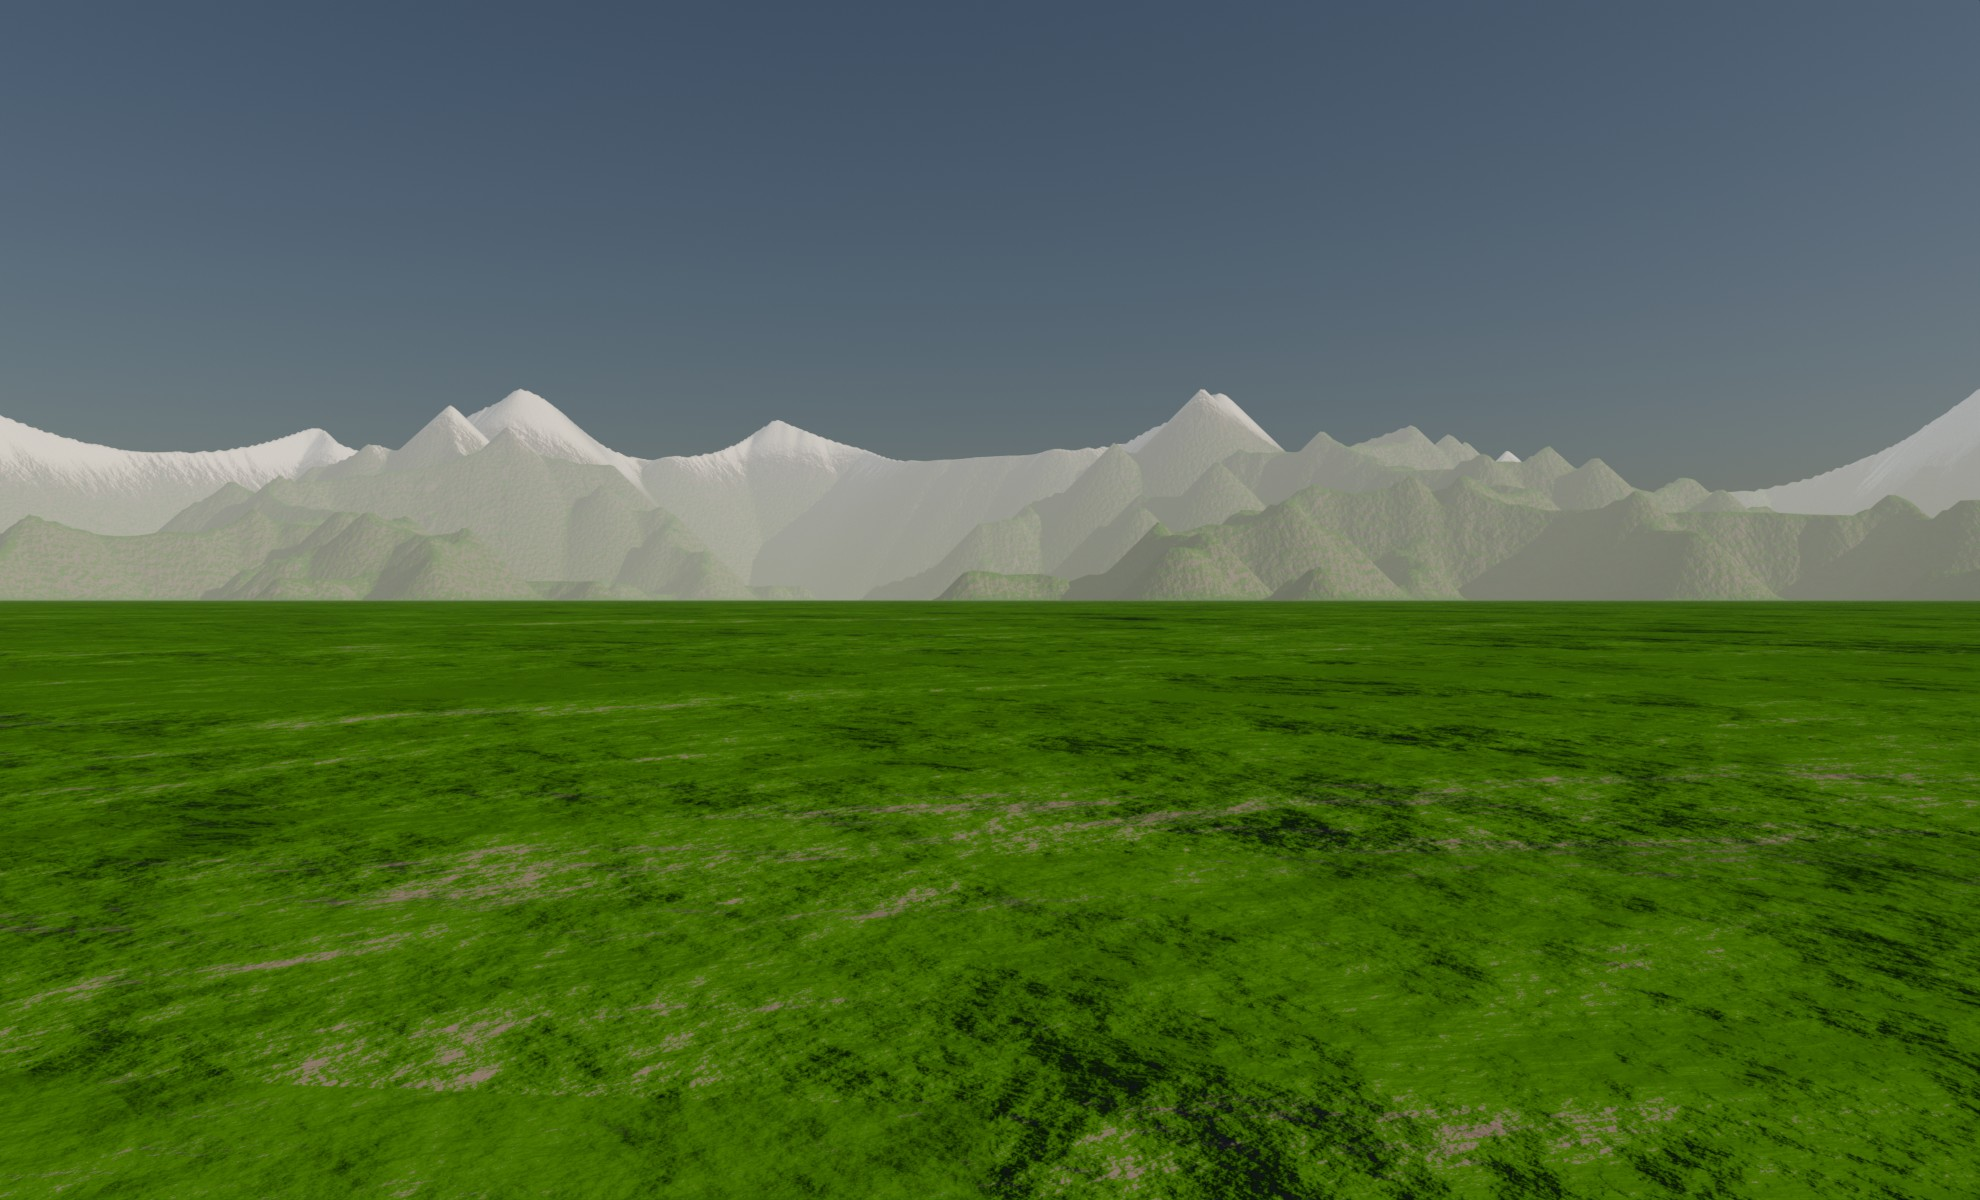
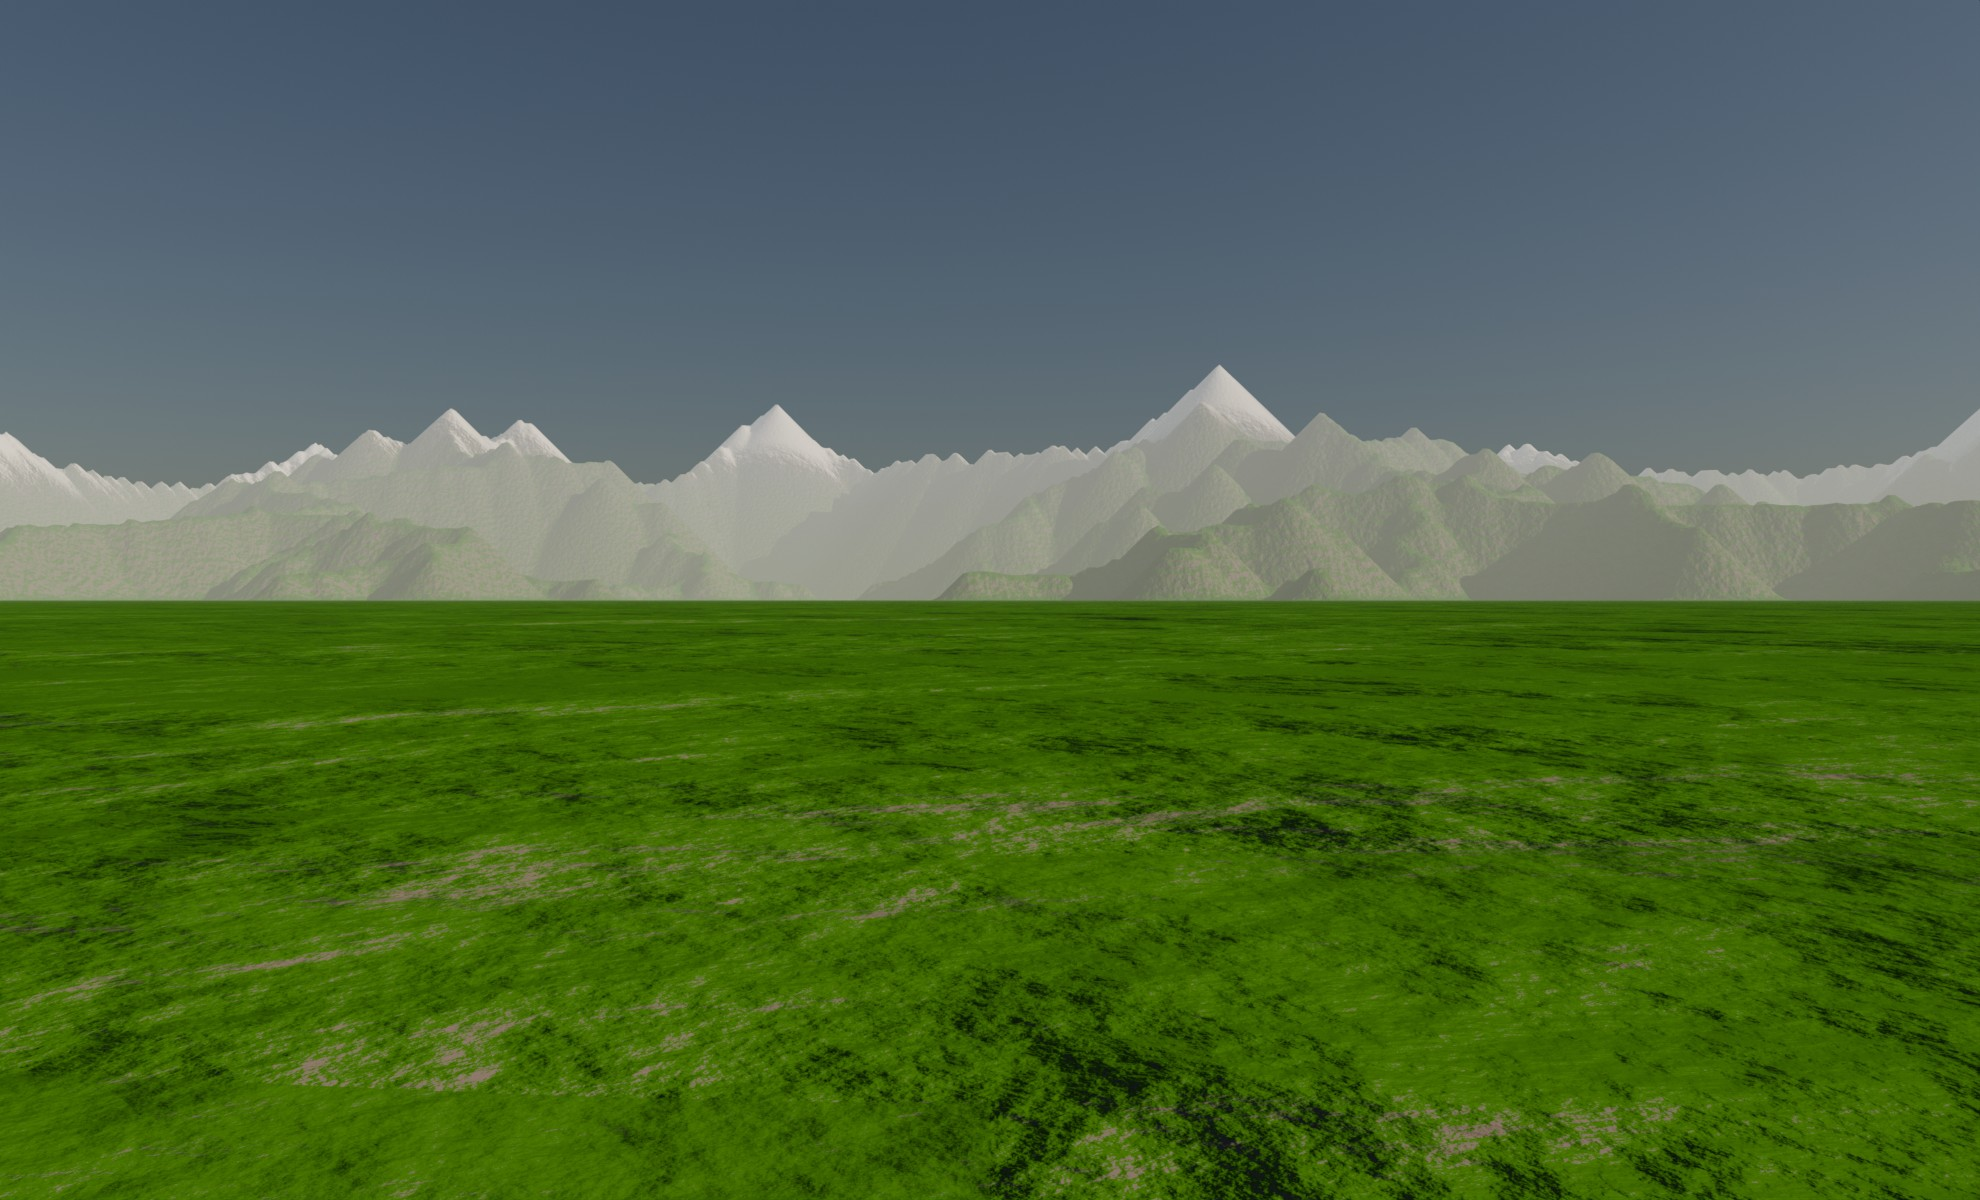
Add noise to elevation

diff --git a/lib/generators/ridge_tree_generator/ridge_tree_branch.cpp b/lib/generators/ridge_tree_generator/ridge_tree_branch.cpp
@@ -82,19 +82,101 @@ terraformer::single_array<float> terraformer::generate_elevation_profile(
 	auto const peak_noise_mix = elevation_profile.peak_noise_mix;
 	auto const peak_gain = (1.0f - peak_noise_mix)*mod_depth;
 
-	single_array ret{std::size(integrated_curve_length)};
-	auto begin_elevation = 0.0f;
-	auto begin_index = integrated_curve_length.first_element_index();
-	std::uniform_real_distribution peak_elevation_distribution{0.0f, 1.0f};
-	for(auto k = branch_points.first_element_index();
-		k != std::size(branch_points);
-		++k
-	)
+	single_array noise_array{std::size(integrated_curve_length)};
 	{
-		array_index<float> const end_index{branch_points[k].get()};
-		auto const dl = integrated_curve_length[end_index] - integrated_curve_length[begin_index];
-		auto const end_elevation = peak_elevation_distribution(rng);
-		auto const col_elvation = -peak_elevation_distribution(rng);
+		std::uniform_real_distribution U{-1.0f, 1.0f};
+		auto const noise_gen = [](float x, float){ return x; };
+		noise_array.front() = 0.0f;
+		auto min_val = 2.0f;
+		auto max_val = - min_val;
+		for(auto k = noise_array.first_element_index() + 1; k != std::size(noise_array); ++k)
+		{
+			auto const dt = integrated_curve_length[k] - integrated_curve_length[k - 1];
+			auto const val = noise_gen(U(rng), dt);
+			min_val = std::min(min_val, val);
+			max_val = std::max(max_val, val);
+			noise_array[k] = val;
+		}
+
+		auto const offset_in = 0.5f*(max_val + min_val);
+		auto const amp_in = 0.5f*(max_val - min_val);
+
+		for(auto k = noise_array.first_element_index(); k != std::size(noise_array); ++k)
+		{ noise_array[k] = (noise_array[k] - offset_in)/amp_in; }
+	}
+
+	single_array ret{std::size(integrated_curve_length)};
+	{
+		auto begin_elevation = 0.0f;
+		auto begin_index = integrated_curve_length.first_element_index();
+		std::uniform_real_distribution peak_elevation_distribution{0.0f, 1.0f};
+		for(auto k = branch_points.first_element_index();
+			k != std::size(branch_points);
+			++k
+		)
+		{
+			array_index<float> const end_index{branch_points[k].get()};
+			auto const dl = integrated_curve_length[end_index] - integrated_curve_length[begin_index];
+			auto const end_elevation = peak_elevation_distribution(rng);
+			auto const col_elvation = -peak_elevation_distribution(rng);
+
+			auto const begin_ddx = wrap_derivative(
+				std::tan(two_pi*pick(elevation_profile.per_peak_modulation.slope, rng)),
+				begin_elevation,
+				initial_elevation,
+				integrated_curve_length[begin_index],
+				L,
+				peak_gain
+			);
+
+			auto const end_ddx = wrap_derivative(
+				std::tan(two_pi*pick(elevation_profile.per_peak_modulation.slope, rng)),
+				begin_elevation,
+				initial_elevation,
+				integrated_curve_length[begin_index],
+				L,
+				peak_gain
+			);
+
+			auto const p_peak_begin = make_polynomial(
+				cubic_spline_control_point{
+					.y = begin_elevation,
+					.ddx = -0.5f*dl*begin_ddx  // Divide by two to compensate for spline being compressed
+				},
+				cubic_spline_control_point{
+					.y = col_elvation,
+					.ddx = 0.0f
+				}
+			);
+
+			auto const p_peak_end = make_polynomial(
+				cubic_spline_control_point{
+					.y = col_elvation,
+					.ddx = 0.0f
+				},
+				cubic_spline_control_point{
+					.y = end_elevation,
+					.ddx = 0.5f*dl*end_ddx  // Divide by two to compensate for spline being compressed
+				}
+			);
+
+			auto const mod_func = [p_peak_begin, p_peak_end, col_elvation](auto x) {
+				return std::max(x < 0.5f? p_peak_begin(2.0f*x) : p_peak_end(2.0f*(x - 0.5f)), col_elvation);
+			};
+
+			for(auto l = begin_index; l != end_index; ++l)
+			{
+				auto const t = integrated_curve_length[l];
+				auto const x = t - integrated_curve_length[begin_index];
+				ret[l] = std::max(initial_elevation(t/L), 0.0f)
+					*(1.0f + mod_depth*std::lerp(mod_func(x/dl), noise_array[l], peak_noise_mix));
+			}
+
+			begin_elevation = end_elevation;
+			begin_index = end_index;
+		}
+
+		auto const dl = L - integrated_curve_length[begin_index];
 
 		auto const begin_ddx = wrap_derivative(
 			std::tan(two_pi*pick(elevation_profile.per_peak_modulation.slope, rng)),
@@ -105,19 +187,12 @@ terraformer::single_array<float> terraformer::generate_elevation_profile(
 			peak_gain
 		);
 
-		auto const end_ddx = wrap_derivative(
-			std::tan(two_pi*pick(elevation_profile.per_peak_modulation.slope, rng)),
-			begin_elevation,
-			initial_elevation,
-			integrated_curve_length[begin_index],
-			L,
-			peak_gain
-		);
+		auto const col_elvation = -peak_elevation_distribution(rng);
 
-		auto const p_peak_begin = make_polynomial(
+		auto const p_peak_final = make_polynomial(
 			cubic_spline_control_point{
 				.y = begin_elevation,
-				.ddx = -0.5f*dl*begin_ddx  // Divide by two to compensate for spline being compressed
+				.ddx = -dl*begin_ddx  // Divide by two to compensate for spline being compressed
 			},
 			cubic_spline_control_point{
 				.y = col_elvation,
@@ -125,65 +200,14 @@ terraformer::single_array<float> terraformer::generate_elevation_profile(
 			}
 		);
 
-		auto const p_peak_end = make_polynomial(
-			cubic_spline_control_point{
-				.y = col_elvation,
-				.ddx = 0.0f
-			},
-			cubic_spline_control_point{
-				.y = end_elevation,
-				.ddx = 0.5f*dl*end_ddx  // Divide by two to compensate for spline being compressed
-			}
-		);
-
-		auto const mod_func = [p_peak_begin, p_peak_end, col_elvation](auto x) {
-			return std::max(x < 0.5f? p_peak_begin(2.0f*x) : p_peak_end(2.0f*(x - 0.5f)), col_elvation);
-		};
-
-		for(auto l = begin_index; l != end_index; ++l)
+		for(auto l = begin_index; l != std::size(integrated_curve_length); ++l)
 		{
 			auto const t = integrated_curve_length[l];
 			auto const x = t - integrated_curve_length[begin_index];
 			ret[l] = std::max(initial_elevation(t/L), 0.0f)
-				*(1.0f + mod_depth*std::lerp(mod_func(x/dl), 1.0f, peak_noise_mix));
+				*(1.0f + mod_depth*std::lerp(p_peak_final(x/dl), noise_array[l], peak_noise_mix));
 		}
-
-		begin_elevation = end_elevation;
-		begin_index = end_index;
 	}
-
-	auto const dl = L - integrated_curve_length[begin_index];
-
-	auto const begin_ddx = wrap_derivative(
-		std::tan(two_pi*pick(elevation_profile.per_peak_modulation.slope, rng)),
-		begin_elevation,
-		initial_elevation,
-		integrated_curve_length[begin_index],
-		L,
-		peak_gain
-	);
-
-	auto const col_elvation = -peak_elevation_distribution(rng);
-
-	auto const p_peak_final = make_polynomial(
-		cubic_spline_control_point{
-			.y = begin_elevation,
-			.ddx = -dl*begin_ddx  // Divide by two to compensate for spline being compressed
-		},
-		cubic_spline_control_point{
-			.y = col_elvation,
-			.ddx = 0.0f
-		}
-	);
-
-	for(auto l = begin_index; l != std::size(integrated_curve_length); ++l)
-	{
-		auto const t = integrated_curve_length[l];
-		auto const x = t - integrated_curve_length[begin_index];
-		ret[l] = std::max(initial_elevation(t/L), 0.0f)
-			*(1.0f + mod_depth*std::lerp(p_peak_final(x/dl), 1.0f, peak_noise_mix));
-	}
-
 	return ret;
 }
 

diff --git a/lib/generators/ridge_tree_generator/ridge_tree.test.cpp b/lib/generators/ridge_tree_generator/ridge_tree.test.cpp
@@ -139,7 +139,7 @@ TESTCASE(terraformer_ridge_tree_generate)
 			},
 			.modulation{
 				.mod_depth = terraformer::modulation_depth{2.0f/5.0f},
-				.peak_noise_mix = terraformer::blend_value{0.0f},
+				.peak_noise_mix = terraformer::blend_value{1.0f/8.0f},
 				.per_peak_modulation{
 					.slope{
 						.min = terraformer::slope_angle{1.0f/24.0f},
@@ -164,7 +164,7 @@ TESTCASE(terraformer_ridge_tree_generate)
 			},
 			.modulation{
 				.mod_depth = terraformer::modulation_depth{1.0f/5.0f},
-				.peak_noise_mix = terraformer::blend_value{0.0f},
+				.peak_noise_mix = terraformer::blend_value{1.0f/8.0f},
 				.per_peak_modulation{
 					.slope{
 						.min = terraformer::slope_angle{1.0f/24.0f},
@@ -189,7 +189,7 @@ TESTCASE(terraformer_ridge_tree_generate)
 			},
 			.modulation{
 				.mod_depth = terraformer::modulation_depth{2.0f/15.0f},
-				.peak_noise_mix = terraformer::blend_value{0.0f},
+				.peak_noise_mix = terraformer::blend_value{1.0f/8.0f},
 				.per_peak_modulation{
 					.slope{
 						.min = terraformer::slope_angle{1.0f/24.0f},
@@ -213,11 +213,11 @@ TESTCASE(terraformer_ridge_tree_generate)
 			},
 			.modulation{
 				.mod_depth = terraformer::modulation_depth{2.0f/25.0f},
-				.peak_noise_mix = terraformer::blend_value{0.0f},
+				.peak_noise_mix = terraformer::blend_value{1.0f/8.0f},
 				.per_peak_modulation{
 					.slope{
 						.min = terraformer::slope_angle{1.0f/24.0f},
-						.max = terraformer::slope_angle{1.0f/8.0f}
+						.max = terraformer::slope_angle{1.0f/25.0f}
 					}
 				},
 				.elevation_noise{}
